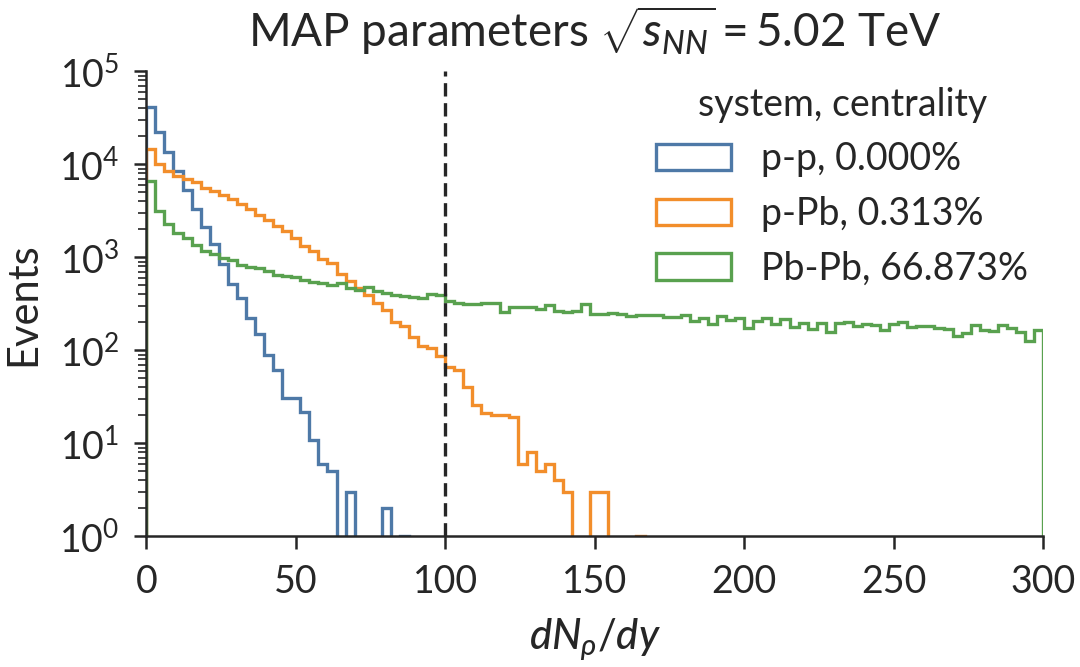
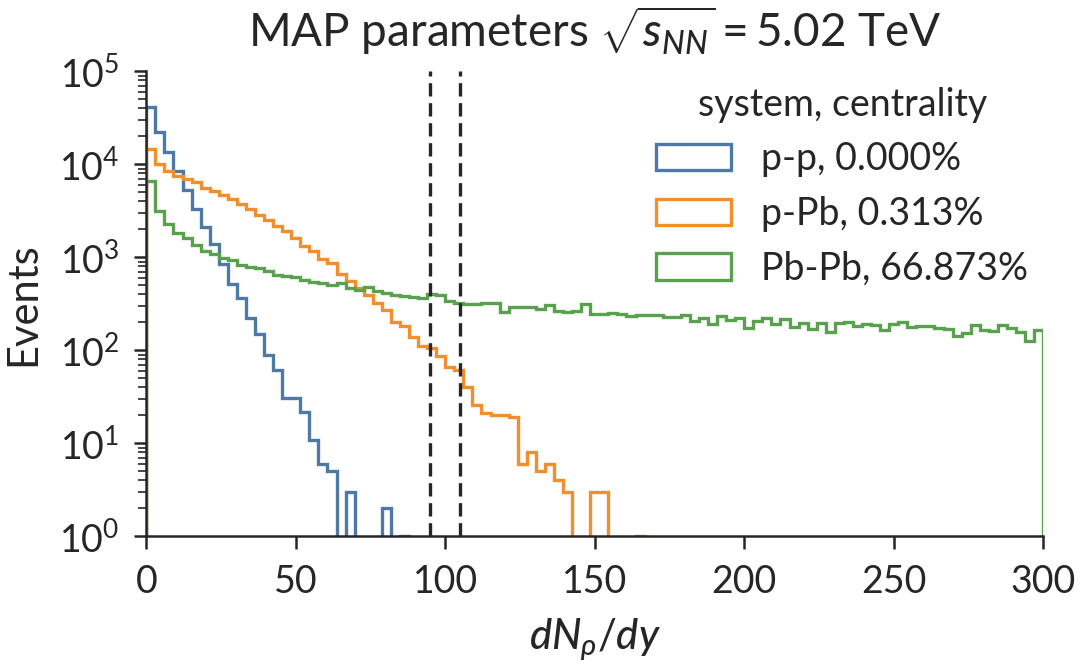
Add more to README

Changed region(s): [[0.3972, 0.09, 0.4278, 0.8096]]

diff --git a/README.md b/README.md
@@ -24,11 +24,26 @@ to regenerate the figures. This could take some time.
 
 The following documentation describes each of the figures in the `plots` directory.
 
-### Multiplicity distribution
+### Multiplicity distributions and event selection
 <img src="plots/mult_dist.png", width="42">
+
+I start by running 10<sup>5</sup> minimum bias p-p, p-Pb and Pb-Pb trento events using _maximum a posteriori_ parameters determined from a combined fit to p-Pb and Pb-Pb yields, mean p<sub>T</sub>, and flows at √s=5.02 TeV (Quark Matter 2018 talk).
+
+Before free-streaming, the initial condition profiles represent a density of "partons" at time τ=0<sup>+</sup>, with integrated densities that are roughly proportional to each event's final charged particle density. The goal of this work is to study p-p, p-Pb and Pb-Pb events with the same charged particle density, so I generate event-averaged initial condition profiles with the same integrated parton densities dN<sub>ρ</sub>/dy = constant. 
+
+I find empirically that 95 < dN<sub>ρ</sub>/dy < 105 selects a reasonable intersection of the p-p, p-Pb and Pb-Pb multiplicity distributions at 5.02 TeV, where hydrodynamic approximations are likely to remain valid. These initial condition events correspond to dN<sub>ch</sub>/dη ≈ 60 particles at midrapidity.
+
+This multiplicity/centrality cut is illustrated by black vertical lines in the above figure, superimposed on the p-p, p-Pb and Pb-Pb minimum bias multiplicity distributions at 5.02 TeV.
+Note that _zero_ p-p events fall within this trigger due to the much smaller number of particles produced in p-p collisions. To remedy this issue, I rescale the p-p multiplicity distribution by an artificial scaling factor to increase the acceptance of my p-p multiplicity trigger.
 
 ### Single-shot events
 <img src="plots/single_shot_events.png", width="42">
 
+Using this initial condition multiplicity cut, I then run a large number of initial condition events and yield events which fall within the specified trigger. The events are shifted into their center of mass frame and rotated so that the complex vector of the second eccentricity harmonic is aligned with the x-axis. The events are then averaged to generate a "single shot" initial condition profile.
+
+This figure shows the event-averaged profiles of dN<sub>ρ</sub>/(d<sup>2</sup>xdη) for each collision system. The initial parton densities dN<sub>ρ</sub>/dy are annotated on each subpanel.
+
 ### Isotherms
 <img src="plots/isotherms.png", width="42">
+
+Finish writing this...
